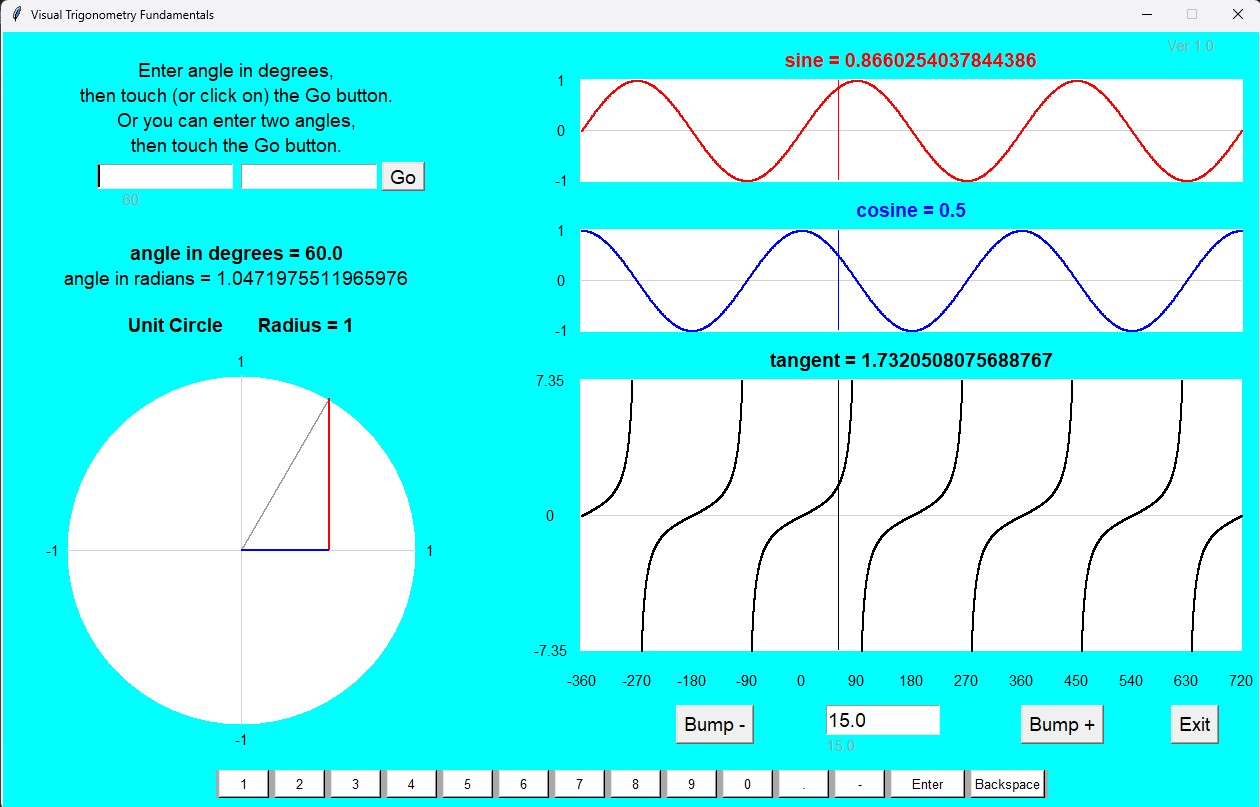
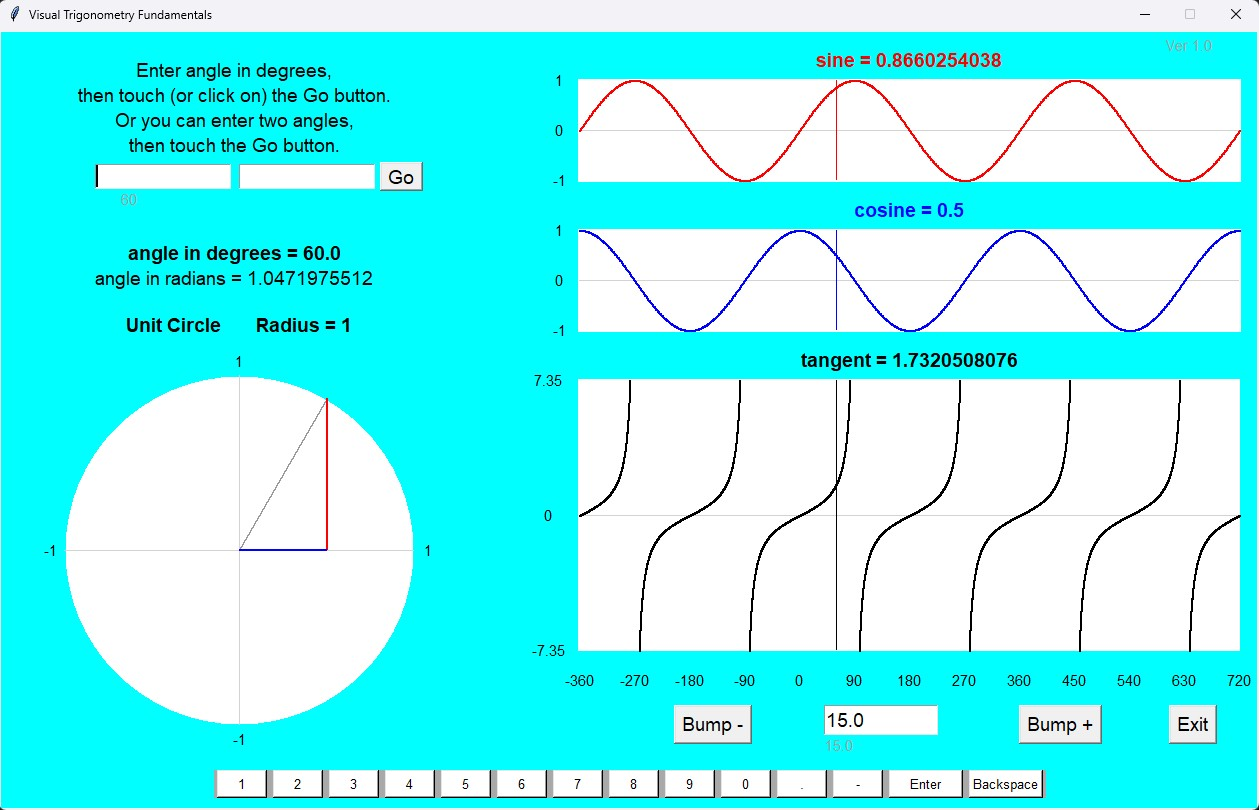
Primary output values are now rounded to 10 digits

diff --git a/TrigMain.py b/TrigMain.py
@@ -533,7 +533,7 @@ class TrigFundamentals:
 		else: 
 			if last_angle_deg >= self.graphMinInDegrees and last_angle_deg <= self.graphMaxInDegrees:
 				self.app_canvas.delete(self.sin_line_id)  # remove the last red sin line that we drew
-			self.app_canvas.delete(self.text_sin_id)  # remove the text from the previous cycle
+			self.app_canvas.delete(self.text_sin_id)  # remove the text that was written during the previous cycle
 
 		if angle_deg >= self.graphMinInDegrees and angle_deg <= self.graphMaxInDegrees:
 			# draw a vertical red line to show the sin of the angle that the user selected
@@ -595,7 +595,7 @@ class TrigFundamentals:
 		else:
 			if last_angle_deg >= self.graphMinInDegrees and last_angle_deg <= self.graphMaxInDegrees:
 				self.app_canvas.delete(self.cos_line_id)  # remove the last blue cos line that we drew
-			self.app_canvas.delete(self.text_cos_id)  # remove the text from the previous cycle
+			self.app_canvas.delete(self.text_cos_id)  # remove the text that was written during the previous cycle
 
 		if angle_deg >= self.graphMinInDegrees and angle_deg <= self.graphMaxInDegrees:
 			# draw a vertical dark blue line to show the cos of the angle that the user selected
@@ -653,7 +653,7 @@ class TrigFundamentals:
 		else: 
 			if last_angle_deg >= self.graphMinInDegrees and last_angle_deg <= self.graphMaxInDegrees:
 				self.app_canvas.delete(self.tan_line_id)  # remove the last black vertical line that we drew
-			self.app_canvas.delete(self.text_tan_id)  # remove the text from the previous cycle
+			self.app_canvas.delete(self.text_tan_id)  # remove the text that was written during the previous cycle
 			
 		if angle_deg >= self.graphMinInDegrees and angle_deg <= self.graphMaxInDegrees:
 			# draw a vertical black line to show the tan of the angle that the user selected
@@ -677,7 +677,7 @@ class TrigFundamentals:
 				self.scale_y(self.UpperLeft_y_tan)-self.scale_y(20), 	text=tan_str, font=("Helvetica", self.primary_font_size, "bold"))
 				
 	def verticalLine(self, angle_deg_requested, UpperLeft_x, UpperLeft_y, width, height, requestedColor):
-		# draw a vertical line to show the function at the requested angle
+		# draw a vertical line to show the function value at the requested angle
 
 		x_position = UpperLeft_x+(width / self.graphSpan)*(angle_deg_requested-self.graphMinInDegrees)
 		x1 = x_position
@@ -689,18 +689,20 @@ class TrigFundamentals:
 		
 	def WriteAngleValues(self, text_y, angle_deg, angle_rad):
 
+		angle_rad_round = round(angle_rad, 10)
+
 		angle_deg_str = 'angle in degrees = ' + str(angle_deg)
-		angle_rad_str = 'angle in radians = ' + str(angle_rad)
+		angle_rad_str = 'angle in radians = ' + str(angle_rad_round)
 
 		if(not self.firstCycle): 
-			self.app_canvas.delete(self.text_angle_deg_id)  # Erase the text from the previous cycle
-			self.app_canvas.delete(self.text_angle_rad_id)  # Erase the text from the previous cycle
+			self.app_canvas.delete(self.text_angle_deg_id)  # Erase the text that was written during the previous cycle
+			self.app_canvas.delete(self.text_angle_rad_id)  # Erase the text that was written during the previous cycle
 
 		local_font_size = None
 		if self.this_screen_width > self.width_threshold:
 			local_font_size = self.primary_font_size
 		else:
-			local_font_size = self.small_font_size #   # for tiny keyboards, we have to hardcode a small amount
+			local_font_size = self.small_font_size #   # for tiny keyboards, we have to use a small font
 
 		self.text_angle_deg_id = self.app_canvas.create_text(self.scale_x(self.text_x), self.scale_y(text_y)+self.scale_y(43), text=angle_deg_str, 
 												  font=("Helvetica", self.primary_font_size, "bold"))
@@ -760,9 +762,9 @@ class TrigFundamentals:
 								
 	def draw_one_angle(self, angle_deg, angle_rad, last_angle_deg):
 
-		sinOfAngle = math.sin(angle_rad)
-		cosOfAngle = math.cos(angle_rad)
-		tanOfAngle = math.tan(angle_rad)
+		sinOfAngle = round(math.sin(angle_rad), 10)  #  Too many digits can be distracting to the user, so round
+		cosOfAngle = round(math.cos(angle_rad), 10)
+		tanOfAngle = round(math.tan(angle_rad), 10)
 
 		self.WriteAngleValues(self.scale_y(self.angle_values_location_y), angle_deg, angle_rad)
 
@@ -913,14 +915,13 @@ class TrigFundamentals:
 
 	def run(self):
 
-		# This program is event driven.  See event <<ButtonClickedGo>>)
 		self.root.mainloop()		
 
 	
-# Create and run the program
+# Create and run the program.   This program is event driven.  See event <<ButtonClickedGo>>)
 if __name__ == "__main__":
     TF = TrigFundamentals()
-    TF.screen_calculations()
-    TF.setup_instance.create_Widgets(TF)
-	# The screen is now populated, waiting for the user to do something
+    TF.screen_calculations() # uses device resolution to scale the app window and widgets
+    TF.setup_instance.create_Widgets(TF) # place the widgets opn the screen
+	# The screen is now populated, the program is now waiting for the user to do something
     TF.run()
